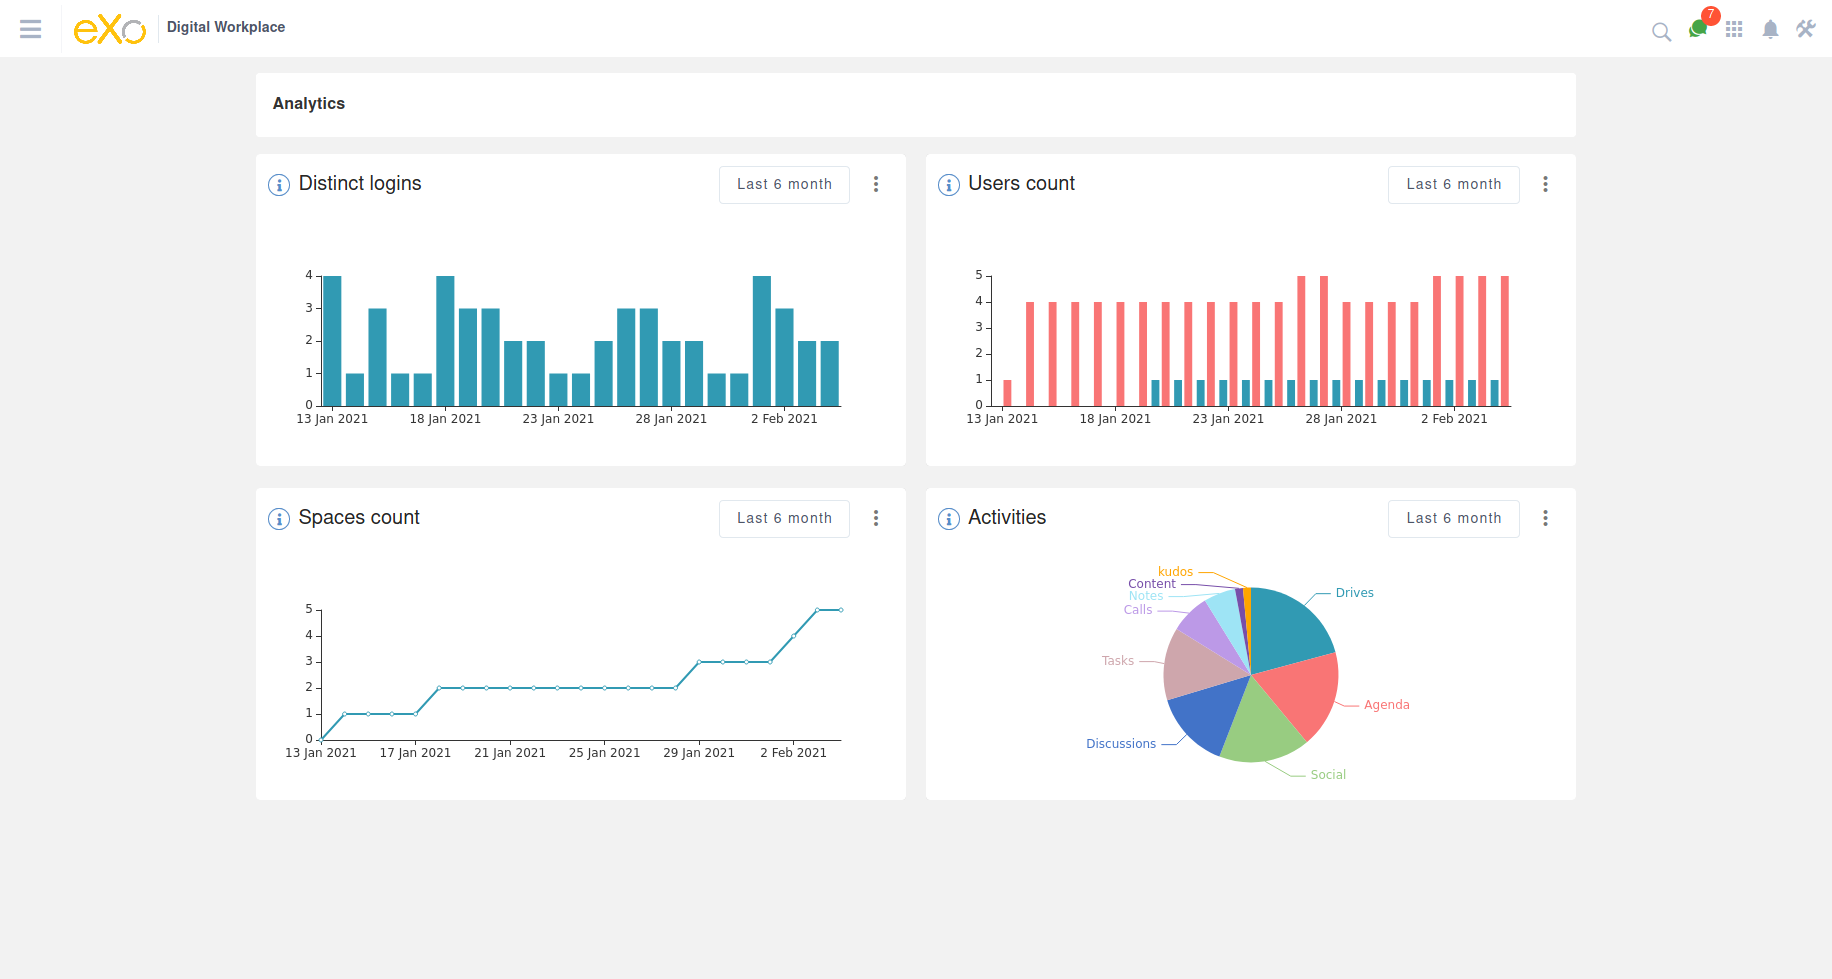
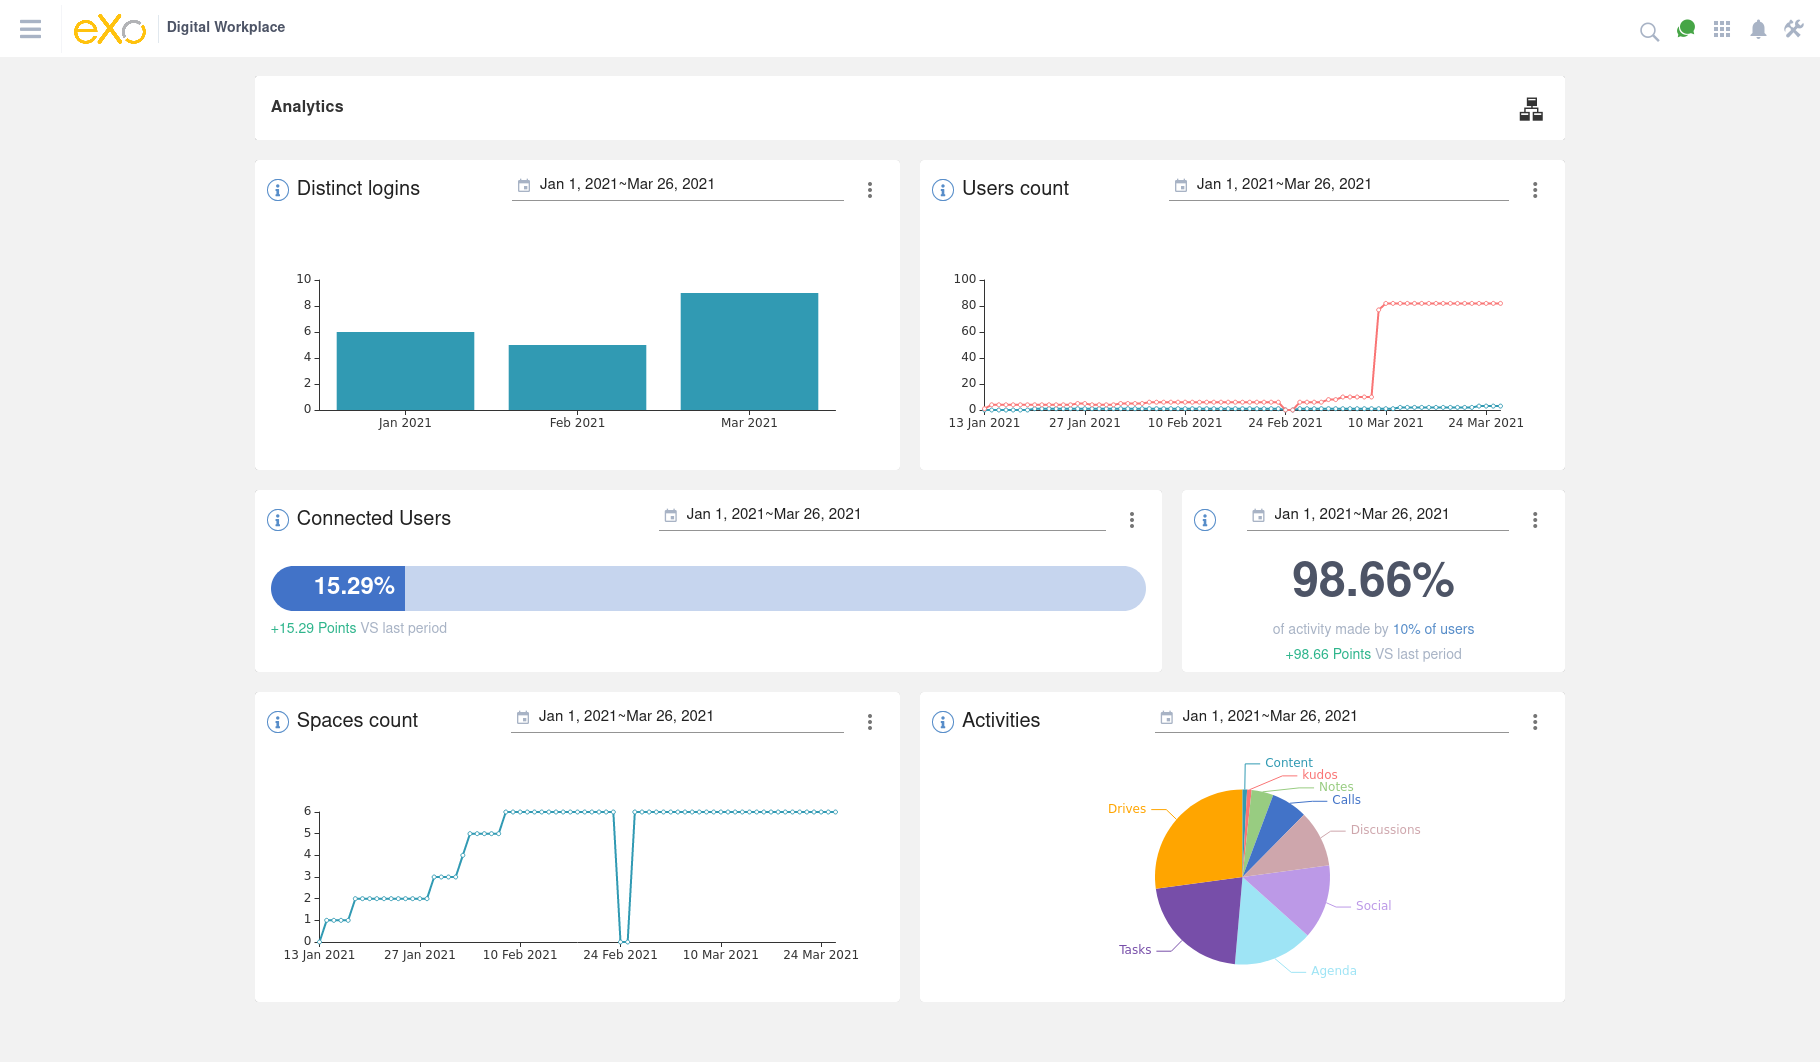
Analytics FT doc

diff --git a/docs/Analytics.rst b/docs/Analytics.rst
@@ -11,27 +11,50 @@ In this chapter, we will introduce the eXo Analytics application which lets you 
 
 The chapter will present these themes:
 
--  :ref:`Main Analytics Dashboard <defaultPage>`  
+-  :ref:`Main Analytics Dashboard <defaultPage>`
+-  :ref:`Create new analytics page <NewPage>`    
+-  :ref:`Custom period selector <PeriodSelector>`    
+-  :ref:`Users analytics table <UsersAnalytics>`    
 
 
 .. _defaultPage:
 
-========================
+=========================
 Main Analytics Dashboard
-========================
+=========================
 
-Click Analytics from the Application Center, to access the main analytics  dashboard. It contains four charts:
-
--  **Distinct logins**: represents the count of users who logged in the platform per day
--  **Users count**: shows the users number (external and internal) in the platform per day
--  **Spaces count**: shows the number of spaces in the platform per day
--  **Activities**: represents a pie chart of the activities made on the platform by module
+Click Analytics from the Application Center, to access the main analytics  dashboard. It contains six charts:
 
 |image0|
 
-.. note:: It is possible to change the analysis period by selecting one of the predefined periods (Last year, Last month...) 
-          
-          |image1|
+-  **Distinct logins**: represents the count of users who logged in the platform
+   N.B: The cound is based on daily basis i.e. if a user logins/logouts more than once a day, it is count only one login.
+   
+   |image5|
+
+
+-  **Users count**: shows the number of enabled users (external and internal) in the platform
+
+   |image6|
+
+
+-  **Spaces count**: shows the number of spaces in the platform
+  
+   |image7|
+
+
+-  **Activities**: represents a pie chart of the activities made on the platform by module
+  
+   |image8|
+   
+-  **Connected users**: A percentage chart showing the percentage of connected users, among the enabled users, during the selected period   
+
+   |image9|
+   
+-  **Analysis chart**: A percentage chart also showing the percentage of activities made by the most active 10% of users, among total activities, during the selected period   
+
+   |image10|   
+
           
 .. _settings:
 
@@ -47,8 +70,105 @@ You can also change the count type and the property to focus on through the Y ax
 
 |image3|
 
+.. _UsersAnalytics:
+
+=========================
+Users analytics table
+=========================
+
+
+
+.. _NewPage:
+
+==========================
+Create new analytics page
+==========================
+
+.. note:: To create a new analytics page, you should belong to both groups /platform/administrators and /platform/analytics
+
+Having satisfied the above condition, you can create new analytics page from template following these steps:
+
+- Click on the settings icon |image11| on the top navigation bar, then on "Add page" choice ==> You'll be redirected to the add page form and by default the page 
+  is positioned under "Analytics" page
+   
+   |image12|
+   
+-  Fill in the needed fields (Node name, Display name...) and then move to the second step
+-  Click on the dropdown list and select the choice "Analytics"
+
+   |image13|
+   
+-  Move to the next step and validate the page creation by clicking on save icon   
+
+   |image14|
+   
+==> You will be redirected to an analytics page with four empty charts which you can configure following the data you need to collect
+
+|image15|
+
+.. _menu:
+
+Analytics pages tree
+~~~~~~~~~~~~~~~~~~~~~~
+   
+You can navigate your analytics pages through the menu drawer which opens when you click on the "Menu" icon |image17|
+
+|image16|
+
+You can also use the page's breadcrumb to back to previous parent page 
+
+|image18|
+
+.. _PeriodSelector:
+
+=========================
+Custom period selector
+=========================
+
+For more flexibility and precision, a custom period selector is available for each chart allowing you to select start and end dates of the period you wish to analyze.
+
+|image1|
+
+.. note:: By default, the start analysis time is set to 12:00:00 A.M of the start date and the end analysis time is set to 11:59:00 PM of the end date (i.e. by default, 
+          the whole day is seleted).
+          
+          You can change the time by clicking on the time picker.
+          
+          |image19|
+          
+Predefined periods exists under the calendar picker: This year, This semester, This quarter, This month, This week and Today. 
+
+Example:
+
+- This year: means the current year and not Today - 356 days
+- This semester means this current semecter i.e. if we are on March month of the year 2021, it means the first semester of the year 2021 which has not yet been completed 
+- Today means the current day starting 12:00:00 A.M
+
+.. tip:: When you select a predefined period, a corresponding start and end dates are selected in the calendar
+
+|image20|
+      
+   
+   
+      
 .. |image0| image:: images/Analytics/defaultPage.png
 .. |image1| image:: images/Analytics/periodSelector.png
 .. |image2| image:: images/Analytics/XAxix.png
 .. |image3| image:: images/Analytics/YAxix.png
 .. |image4| image:: images/Analytics/SettingsButton.png
+.. |image5| image:: images/Analytics/DistinctLogins.png
+.. |image6| image:: images/Analytics/UsersCount.png
+.. |image7| image:: images/Analytics/SpacesCount.png
+.. |image8| image:: images/Analytics/Activities.png
+.. |image9| image:: images/Analytics/ConnectedUSers.png
+.. |image10| image:: images/Analytics/AnalysisCHart.png
+.. |image11| image:: images/Analytics/SettingsICon.png
+.. |image12| image:: images/Analytics/NewPage.png
+.. |image13| image:: images/Analytics/AnalyticsTemplate.png
+.. |image14| image:: images/Analytics/SavePage.png
+.. |image15| image:: images/Analytics/NewAnalyticsPage.png
+.. |image16| image:: images/Analytics/MenuDrawer.png
+.. |image17| image:: images/Analytics/MenuICon.png
+.. |image18| image:: images/Analytics/breadcrumb.png
+.. |image19| image:: images/Analytics/EditTime.png
+.. |image20| image:: images/Analytics/Synchronize.png
